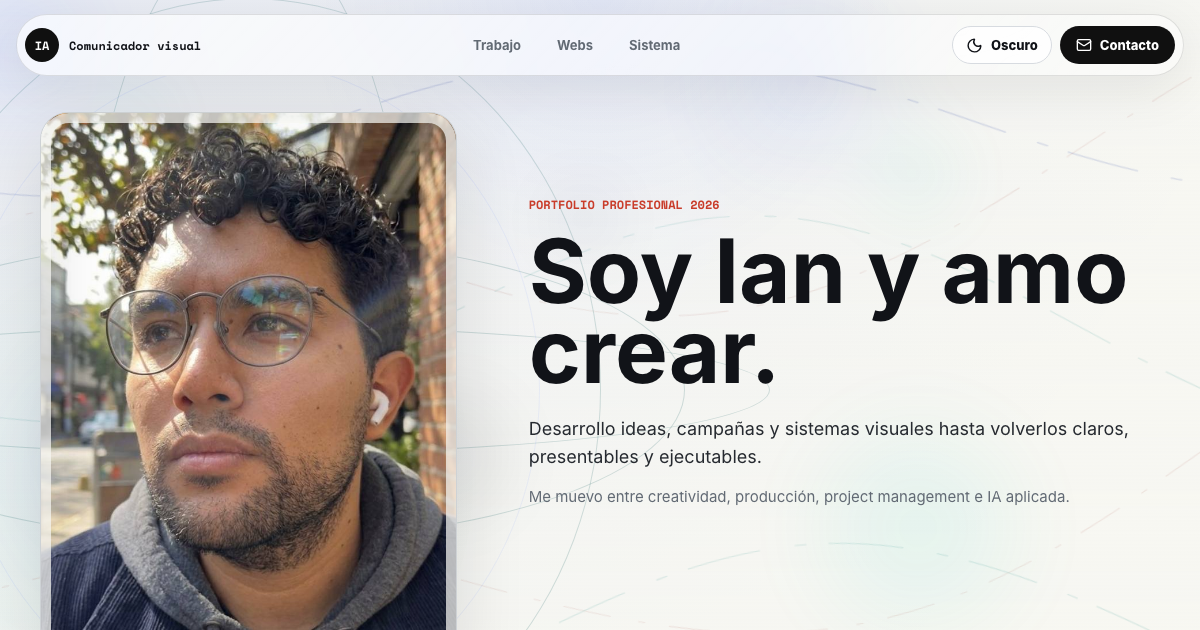
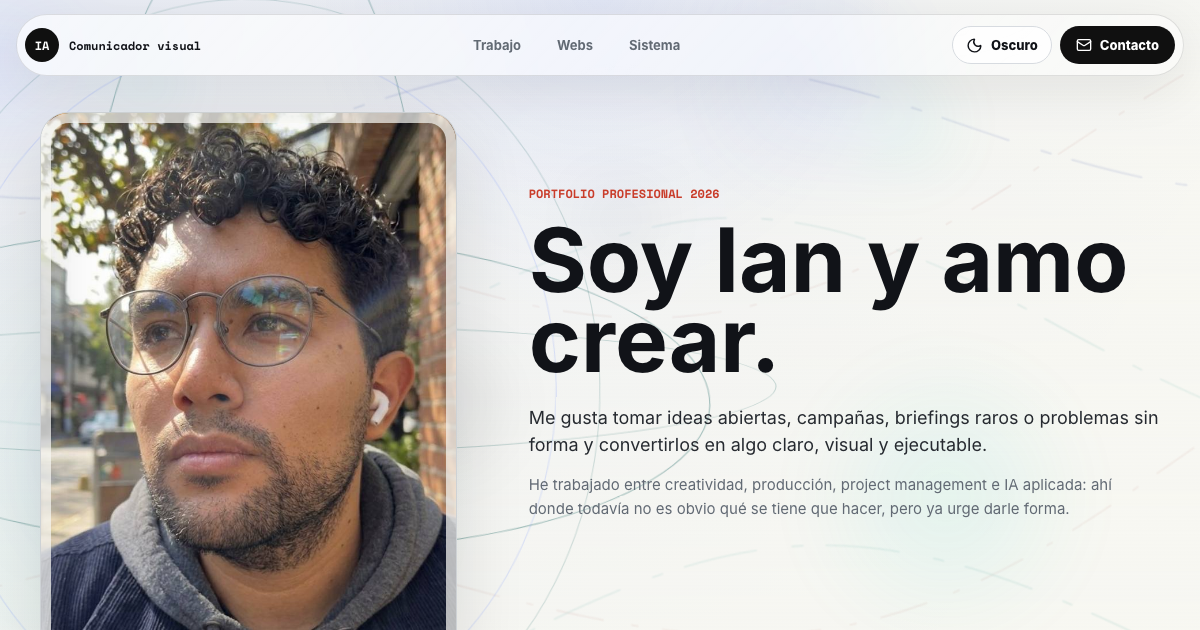
Shift portfolio copy to first person

Changed region(s): [[0.4317, 0.3619, 0.9558, 0.8444], [0.4317, 0.3016, 0.6167, 0.3317], [0.0, 0.8143, 0.0308, 0.8444]]

diff --git a/src/App.jsx b/src/App.jsx
@@ -30,14 +30,16 @@ const projects = [
     code: '01',
     title: 'CEMEX + Museo Anahuacalli',
     type: 'Estrategia cultural',
-    copy: 'Una idea cultural convertida en ruta ejecutable.',
+    copy: 'Convertí una idea cultural en una ruta ejecutable.',
+    detail:
+      'Trabajé una propuesta cultural desde la narrativa hasta la estructura operativa: qué se quería provocar, cómo se podía presentar y qué piezas hacían falta para convertir una intención amplia en un proyecto defendible.',
     tags: ['Cultura', 'Planeación', 'Documentación'],
     visual: 'CEMEX / ANAHUACALLI',
     cover: '/cases/cemex-anahuacalli/01-anahuacalli-el-muro-vivo-portada.jpg',
     xyz: {
-      x: 'Aterrizar una oportunidad cultural sin perder ambición.',
-      y: 'Una ruta clara para presentar, decidir y ejecutar.',
-      z: 'Necesidades, presupuesto y narrativa en una propuesta.',
+      x: 'Tenía que aterrizar una oportunidad cultural sin quitarle ambición.',
+      y: 'Dejé una ruta clara para presentar, decidir y ejecutar.',
+      z: 'Uní necesidades, presupuesto y narrativa en una propuesta legible.',
     },
     images: [
       {
@@ -65,14 +67,16 @@ const projects = [
     code: '02',
     title: 'Reckitt + marcas de consumo',
     type: 'Campañas y responsabilidad corporativa',
-    copy: 'Campañas sensibles para marcas y salud pública.',
+    copy: 'Desarrollé campañas sensibles para marcas y salud pública.',
+    detail:
+      'Me tocó cuidar mensajes donde la marca, la salud y la reputación conviven en el mismo espacio. Ordené la comunicación para que cada pieza pudiera hablarle a su audiencia sin perder precisión ni tono institucional.',
     tags: ['Campañas', 'RCA', 'Cliente'],
     visual: 'RECKITT / HEALTH',
     cover: '/cases/reckitt-marcas-consumo/01-cal-c-tose-chocomilk-presentacion.jpg',
     xyz: {
-      x: 'Hablar de salud, consumo y reputación con cuidado.',
-      y: 'Mensajes más claros para audiencias distintas.',
-      z: 'Campaña, piezas y entregables coordinados.',
+      x: 'Necesitaba hablar de salud, consumo y reputación con cuidado.',
+      y: 'Logré mensajes más claros para audiencias distintas.',
+      z: 'Coordiné campaña, piezas y entregables con una misma lógica.',
     },
     images: [
       {
@@ -100,14 +104,16 @@ const projects = [
     code: '03',
     title: 'Activaciones y eventos',
     type: 'Producción de campo',
-    copy: 'Del concepto a la operación en campo.',
+    copy: 'Llevé conceptos a operación real en campo.',
+    detail:
+      'En activaciones y eventos trabajo entre la idea bonita y lo que realmente se puede montar. Mi papel fue conectar brief, proveedor, tiempos, materiales y ajustes para que la ejecución no dependiera de improvisar al final.',
     tags: ['Producción', 'PM', 'Proveedor'],
     visual: 'FIELD / OPS',
     cover: '/cases/activaciones-eventos/02-omni-veracruz-stand-expo.jpg',
     xyz: {
-      x: 'Convertir idea, proveedor y tiempos en algo montable.',
-      y: 'Materiales listos y operación más controlada.',
-      z: 'Licitación, coordinación y ajustes en campo.',
+      x: 'Tenía que convertir idea, proveedor y tiempos en algo montable.',
+      y: 'Dejé materiales listos y una operación más controlada.',
+      z: 'Acompañé licitación, coordinación y ajustes en campo.',
     },
     images: [
       {
@@ -129,14 +135,16 @@ const projects = [
     code: '04',
     title: 'IA para procesos internos',
     type: 'Operación aumentada',
-    copy: 'Flujos de IA para acelerar trabajo real.',
+    copy: 'Diseñé flujos de IA para acelerar trabajo real.',
+    detail:
+      'Uso IA como una capa práctica, no como adorno. La he aplicado para ordenar información, crear prototipos, documentar procesos y convertir decisiones dispersas en sistemas que el equipo puede usar.',
     tags: ['IA', 'Automatización', 'Sistemas'],
     visual: 'AI / PROCESS',
     cover: '/cases/ia-procesos-internos/stand-builder-ai.png',
     xyz: {
-      x: 'Demasiada información dispersa y tareas repetidas.',
-      y: 'Documentar, analizar y prototipar más rápido.',
-      z: 'IA, dashboards y procesos mejor conectados.',
+      x: 'Partí de información dispersa y tareas repetidas.',
+      y: 'Pude documentar, analizar y prototipar más rápido.',
+      z: 'Conecté IA, dashboards y procesos en una rutina más útil.',
     },
     images: [
       {
@@ -158,14 +166,16 @@ const projects = [
     code: '05',
     title: 'Comunicación política',
     type: 'Narrativa pública',
-    copy: 'Narrativa pública para temas complejos.',
+    copy: 'Construí narrativa pública para temas complejos.',
+    detail:
+      'En comunicación política me interesa bajar temas densos a mensajes que se puedan entender, sostener y publicar. Trabajo el contexto, el ángulo y el formato para que la pieza no se quede en discurso interno.',
     tags: ['Gobierno', 'Narrativa', 'Contenido'],
     visual: 'PUBLIC / NARRATIVE',
     cover: '/cases/comunicacion-politica/01-senado-yeidckol-retrato-morena.jpg',
     xyz: {
-      x: 'Convertir temas legislativos en mensajes entendibles.',
-      y: 'Una narrativa más ordenada para piezas públicas.',
-      z: 'Contexto, redacción y formatos de difusión.',
+      x: 'Tenía que convertir temas legislativos en mensajes entendibles.',
+      y: 'Construí una narrativa más ordenada para piezas públicas.',
+      z: 'Trabajé contexto, redacción y formatos de difusión.',
     },
     images: [
       {
@@ -187,14 +197,16 @@ const projects = [
     code: '06',
     title: 'Organizaciones sociales',
     type: 'Difusión institucional',
-    copy: 'Difusión visual para causas y organizaciones.',
+    copy: 'Desarrollé difusión visual para causas y organizaciones.',
+    detail:
+      'Con organizaciones sociales busco que la información no se vuelva pesada. Trabajo comunicados, videos, contexto visual y piezas de apoyo para que una causa pueda explicarse, convocar y presentarse con más claridad.',
     tags: ['Impacto', 'Visual', 'Difusión'],
     visual: 'SOCIAL / IMPACT',
     cover: '/cases/organizaciones-sociales/concomercio-centro-historico-mundial-2026-7649091564077174037.jpg',
     xyz: {
-      x: 'Explicar causas sin volverlas pesadas.',
-      y: 'Materiales más útiles para convocar y presentar.',
-      z: 'Comunicados, visuales y piezas audiovisuales.',
+      x: 'Necesitaba explicar causas sin volverlas pesadas.',
+      y: 'Dejé materiales más útiles para convocar y presentar.',
+      z: 'Organicé comunicados, visuales y piezas audiovisuales.',
     },
     images: [
       {
@@ -253,10 +265,10 @@ const webBuilds = [
 ]
 
 const timeline = [
-  ['2024 - Actualidad', 'Nimbus Marketing y RP', 'Project Manager, comunicación y producción creativa.'],
-  ['2024 - Actualidad', 'Senado de la República', 'Asesoría de comunicación política y materiales estratégicos.'],
-  ['2025 - Actualidad', 'Black Intelligence Marketing', 'Comunicación para sector gubernamental y proyectos especiales.'],
-  ['2023 - 2024', 'Hi-Tech Marketing', 'Diseño senior, edición de video y producción visual.'],
+  ['2024 - Actualidad', 'Nimbus Marketing y RP', 'Lidero proyectos, comunicación y producción creativa.'],
+  ['2024 - Actualidad', 'Senado de la República', 'Desarrollo comunicación política y materiales estratégicos.'],
+  ['2025 - Actualidad', 'Black Intelligence Marketing', 'Trabajo comunicación para gobierno y proyectos especiales.'],
+  ['2023 - 2024', 'Hi-Tech Marketing', 'Diseñé, edité video y produje materiales visuales.'],
 ]
 
 const tools = [
@@ -427,7 +439,7 @@ function CasePage({ project }) {
             Volver a casos
           </a>
           <h1>Caso no encontrado.</h1>
-          <p>La ruta no coincide con un proyecto publicado en este portfolio.</p>
+          <p>No tengo publicado un caso en esta ruta.</p>
         </div>
       </section>
     )
@@ -454,7 +466,7 @@ function CasePage({ project }) {
 
         <div className="case-overview reveal">
           <span>{project.type}</span>
-          <p>{project.copy}</p>
+          <p>{project.detail}</p>
         </div>
 
         <div className="case-media-grid">
@@ -465,24 +477,24 @@ function CasePage({ project }) {
 
         <div className="xyz-grid">
           <article className="xyz-card reveal">
-            <span>Reto</span>
-            <h2>Reto</h2>
+            <span>Mi reto</span>
+            <h2>Mi reto</h2>
             <p>{project.xyz.x}</p>
           </article>
           <article className="xyz-card reveal">
             <span>Resultado</span>
-            <h2>Resultado</h2>
+            <h2>Lo que dejé</h2>
             <p>{project.xyz.y}</p>
           </article>
           <article className="xyz-card reveal">
             <span>Resolución</span>
-            <h2>Resolución</h2>
+            <h2>Cómo lo resolví</h2>
             <p>{project.xyz.z}</p>
           </article>
         </div>
 
         <div className="case-next reveal">
-          <p>Entender, producir y entregar claro.</p>
+          <p>Me gusta convertir problemas abiertos en entregas claras.</p>
           <a className="primary-action" href="/#contacto">
             Contacto
             <ArrowUpRight size={18} />
@@ -516,8 +528,8 @@ function App() {
 
   useEffect(() => {
     const description =
-      activeCase?.copy ||
-      'Portfolio profesional de Ian Aceves: ideas, procesos creativos, campañas, producción e inteligencia artificial aplicada.'
+      activeCase?.detail ||
+      'Soy Ian Aceves. Creo ideas, campañas, sistemas visuales y procesos con inteligencia artificial aplicada.'
 
     document.title = activeCase
       ? `${activeCase.title} | Caso de Ian Aceves`
@@ -843,11 +855,12 @@ function App() {
               <p className="hero-kicker reveal">Portfolio profesional 2026</p>
               <h1 className="reveal">Soy Ian y amo crear.</h1>
               <p className="hero-lede reveal">
-                Desarrollo ideas, campañas y sistemas visuales hasta volverlos claros,
-                presentables y ejecutables.
+                Me gusta tomar ideas abiertas, campañas, briefings raros o problemas sin forma
+                y convertirlos en algo claro, visual y ejecutable.
               </p>
               <p className="hero-lede hero-lede-secondary reveal">
-                Me muevo entre creatividad, producción, project management e IA aplicada.
+                He trabajado entre creatividad, producción, project management e IA aplicada:
+                ahí donde todavía no es obvio qué se tiene que hacer, pero ya urge darle forma.
               </p>
               <div className="hero-actions reveal">
                 <a className="primary-action" href="#trabajo">
@@ -865,10 +878,10 @@ function App() {
           <div className="section-header">
             <div>
               <div className="section-kicker reveal">Trabajo seleccionado</div>
-              <h2 className="section-title reveal">Casos que combinan estrategia, producción y ejecución.</h2>
+              <h2 className="section-title reveal">Casos donde combino estrategia, producción y ejecución.</h2>
             </div>
             <p className="section-note reveal">
-              Una selección breve por tipo de reto.
+              Una selección breve de retos que he convertido en entregas reales.
             </p>
           </div>
           <div className="project-grid">
@@ -900,10 +913,10 @@ function App() {
           <div className="section-header">
             <div>
               <div className="section-kicker reveal">Experiencias digitales</div>
-              <h2 className="section-title reveal">Interfaces listas para verse, usarse y compartirse.</h2>
+              <h2 className="section-title reveal">Interfaces que he creado para verse, usarse y compartirse.</h2>
             </div>
             <p className="section-note reveal">
-              Sitios y prototipos con una capa visual más fuerte que un documento plano.
+              Sitios y prototipos donde convierto una idea en una experiencia más clara que un documento plano.
             </p>
           </div>
           <div className="web-grid">
@@ -930,34 +943,34 @@ function App() {
               <div className="section-kicker reveal">Sistema</div>
               <h2 className="section-title reveal">Del caos del brief a una ruta visible.</h2>
               <p className="section-note reveal">
-                Ordenar ideas, entregables y decisiones.
+                Así ordeno ideas, entregables y decisiones.
               </p>
             </div>
             <div className="process-board reveal">
               <div className="process-row">
                 <FileText size={22} />
                 <span>Brief</span>
-                <strong>Entender el problema real</strong>
+                <strong>Entiendo el problema real</strong>
               </div>
               <div className="process-row">
                 <Workflow size={22} />
                 <span>Ruta</span>
-                <strong>Definir entregables y responsables</strong>
+                <strong>Defino entregables y responsables</strong>
               </div>
               <div className="process-row">
                 <Layers3 size={22} />
                 <span>Producción</span>
-                <strong>Coordinar materiales, versiones y revisión</strong>
+                <strong>Coordino materiales, versiones y revisión</strong>
               </div>
               <div className="process-row">
                 <Cpu size={22} />
                 <span>IA aplicada</span>
-                <strong>Acelerar documentación, reportes y prototipos</strong>
+                <strong>Acelero documentación, reportes y prototipos</strong>
               </div>
               <div className="process-row">
                 <Play size={22} />
                 <span>Entrega</span>
-                <strong>Presentar claro, medir y ajustar</strong>
+                <strong>Presento claro, mido y ajusto</strong>
               </div>
             </div>
           </div>
@@ -978,7 +991,7 @@ function App() {
           </div>
           <div className="tools-panel reveal">
             <div className="section-kicker">Stack</div>
-            <h2>Herramientas con las que piensa, produce y entrega.</h2>
+            <h2>Herramientas con las que pienso, produzco y entrego.</h2>
             <div className="tools-grid">
               {tools.map((tool) => (
                 <span key={tool}>{tool}</span>
@@ -991,7 +1004,7 @@ function App() {
           <div className="contact-panel reveal">
             <div>
               <div className="section-kicker">Contacto</div>
-              <h2>Construyamos algo que se vea bien y funcione mejor.</h2>
+              <h2>Me interesa crear cosas que se vean bien y funcionen mejor.</h2>
             </div>
             <div className="contact-actions">
               <a className="primary-action" href="mailto:[email redacted]">

diff --git a/index.html b/index.html
@@ -6,7 +6,7 @@
     <meta name="viewport" content="width=device-width, initial-scale=1.0" />
     <meta
       name="description"
-      content="Portfolio profesional de Ian Aceves: ideas, procesos creativos, campañas, producción e inteligencia artificial aplicada."
+      content="Soy Ian Aceves. Creo ideas, campañas, sistemas visuales y procesos con inteligencia artificial aplicada."
     />
     <meta name="theme-color" content="#111318" />
     <meta property="og:type" content="website" />
@@ -14,7 +14,7 @@
     <meta property="og:title" content="Ian Aceves | Creatividad, proyectos e IA aplicada" />
     <meta
       property="og:description"
-      content="Casos y experiencias de Ian Aceves para convertir ideas complejas en entregas claras, visuales y humanas."
+      content="Casos y experiencias donde convierto ideas complejas en entregas claras, visuales y humanas."
     />
     <meta property="og:image" content="https://ian-portfolio-tech.vercel.app/previews/ian-aceves-og-2026.png" />
     <meta property="og:image:secure_url" content="https://ian-portfolio-tech.vercel.app/previews/ian-aceves-og-2026.png" />
@@ -25,7 +25,7 @@
     <meta name="twitter:title" content="Ian Aceves | Creatividad, proyectos e IA aplicada" />
     <meta
       name="twitter:description"
-      content="Casos y experiencias de Ian Aceves para convertir ideas complejas en entregas claras, visuales y humanas."
+      content="Casos y experiencias donde convierto ideas complejas en entregas claras, visuales y humanas."
     />
     <meta name="twitter:image" content="https://ian-portfolio-tech.vercel.app/previews/ian-aceves-og-2026.png" />
     <title>Ian Aceves | Creatividad, proyectos e IA aplicada</title>